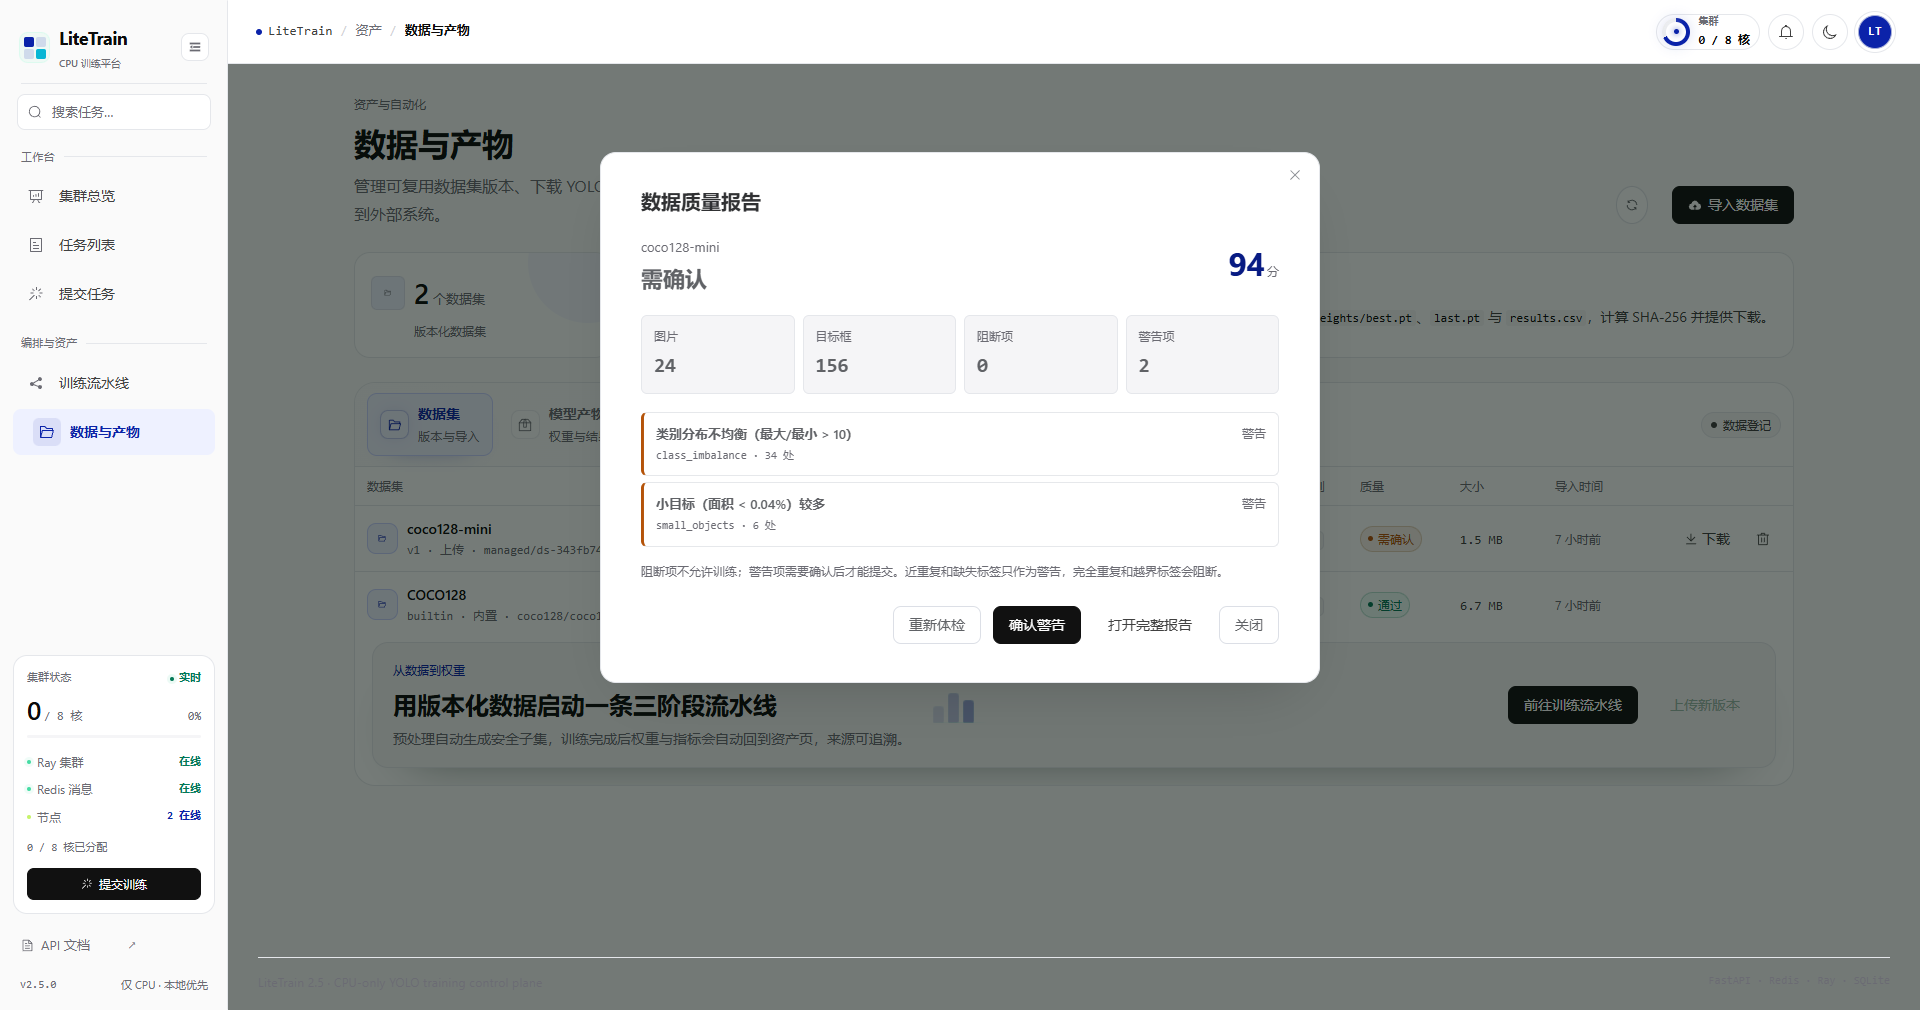
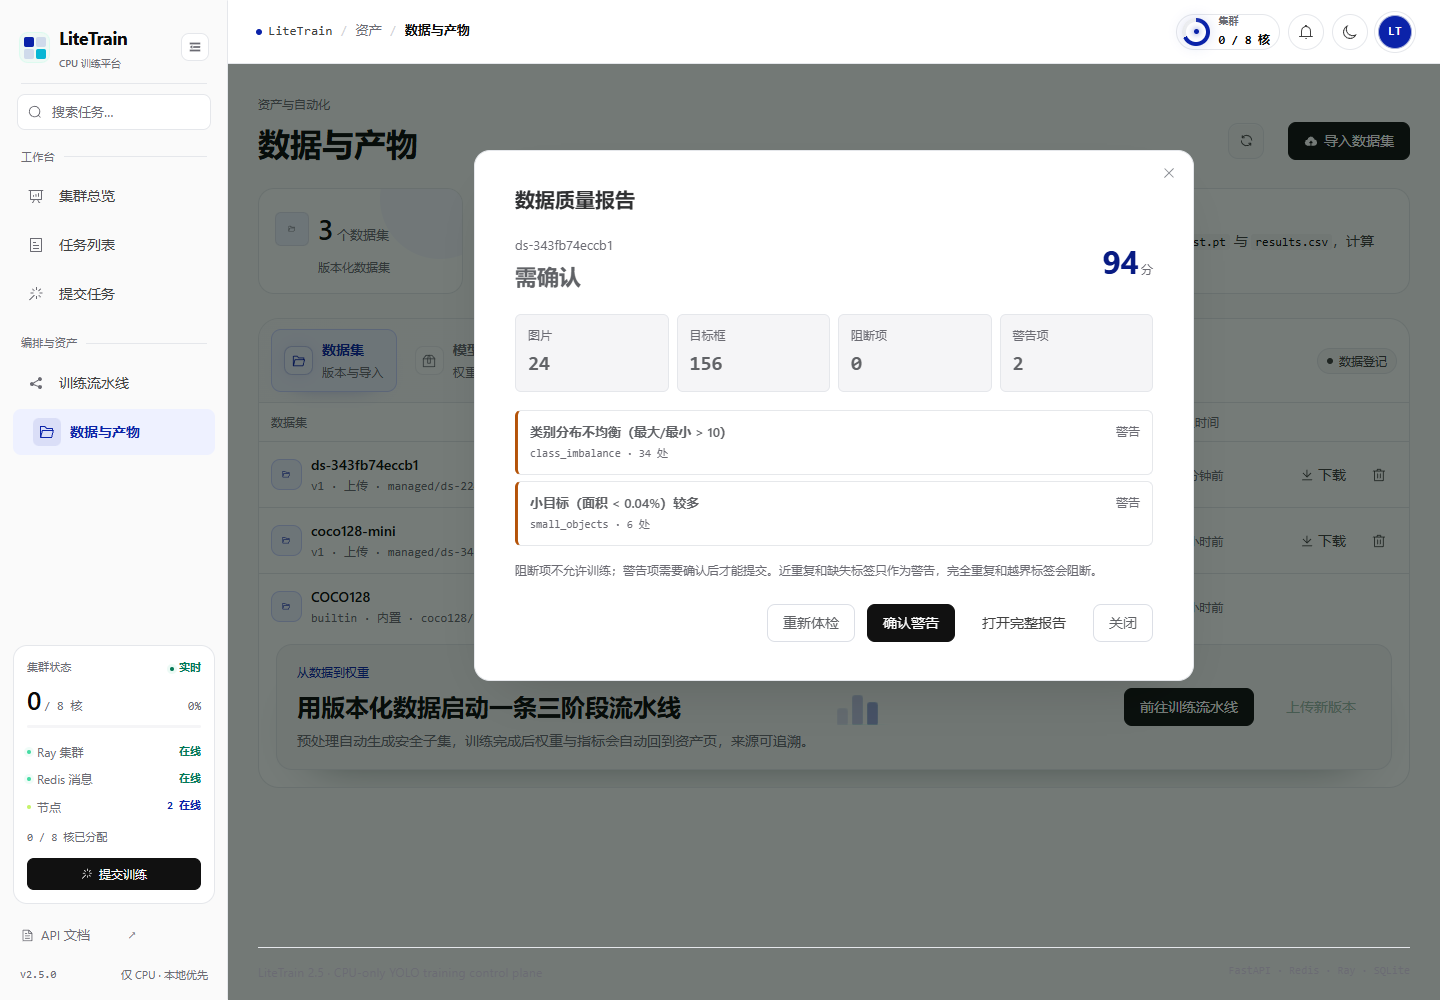
style(web): center dialogs in workspace when sidebar is open

diff --git a/frontend/src/layout/AppLayout.vue b/frontend/src/layout/AppLayout.vue
@@ -128,6 +128,14 @@ watch(
   () => refreshStatus(),
 )
 
+watch(
+  () => sidebarCollapsed.value,
+  (collapsed) => {
+    document.documentElement.classList.toggle('sidebar-expanded', !collapsed)
+  },
+  { immediate: true },
+)
+
 onBeforeUnmount(() => {
   if (statusTimer) window.clearInterval(statusTimer)
   window.removeEventListener('keydown', onShortcut)

diff --git a/frontend/src/styles/index.css b/frontend/src/styles/index.css
@@ -919,6 +919,16 @@ html.dark .panel {
   background-color: rgba(4, 14, 9, 0.55);
 }
 
+@media (min-width: 1001px) {
+  html.sidebar-expanded .el-overlay-dialog {
+    padding-left: 228px;
+  }
+
+  html.sidebar-expanded .el-dialog {
+    max-width: calc(100vw - 260px);
+  }
+}
+
 .el-tooltip__popper {
   font-size: 13px;
 }
